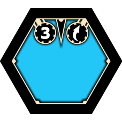
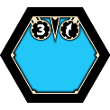
-wywalenie niepotrzebej grafiki -zeskalowanie planszy do 700px w poziomie -powiekszenie paneli informacyjnych -wycentrowanie hexow -pododawane komentarze -wyciagniecie kilka wartosci jako globalne, zeby latwiej manipulowac wielkoscia elementow w grze

diff --git a/onhoclient/onho.py b/onhoclient/onho.py
@@ -43,26 +43,28 @@ color_list = [
 (204, 204, 202)
 ]
 
-aplayer_panel = pygame.Rect((0, 660), (660, 140))
-sidepanel_size = (340, 800 / liczba_graczy)
+aplayer_panel = pygame.Rect((0, 590), (625, 110))
+sidepanel_size = (375, 700 / liczba_graczy)
 panel_list = []
     
 zeton_imgs = ['zet1.png', 'zet2.png', 'zet3.png']
 zetonsprites = []
-zetonslot1 = pygame.Rect((100, 650), (150, 150))
-zetonslot2 = pygame.Rect((300, 650), (150, 150))
-zetonslot3 = pygame.Rect((500, 650), (150, 150))
+
+zetonslot1 = pygame.Rect((50, 595), (100, 100))
+zetonslot2 = pygame.Rect((180, 595), (100, 100))
+zetonslot3 = pygame.Rect((310, 595), (100, 100))
 
 pygame.init()
 pygame.mouse.set_visible(0)
-screen = pygame.display.set_mode ([1000, 800])
+screen = pygame.display.set_mode ([1000, 700])
 pygame.display.set_caption('Open Neuroshina Hex Online')
 
-plansza_rect = pygame.Rect((0, 0), (660, 660))
+plansza_rect = pygame.Rect((0, 0), (625, 590))
 plansza_img = pygame.image.load(os.path.join('data', "plansza.png")).convert_alpha()
 
-plansza = board.Board(width=660, height=660)
-plansza_surface = pygame.Surface((660, 660), SRCALPHA).convert_alpha()
+plansza = board.Board(width=555, height=520)
+plansza_surface = pygame.Surface((555, 520), SRCALPHA).convert_alpha()
+grid_offset = (50, 10)
 
 def load_image(name, colorkey=None):
     fullname = os.path.join('data', name)
@@ -163,8 +165,10 @@ class Tiles():
         self.image = rotate(self.original, self.angle, 1)
         self.rect = self.image.get_rect(center=center)
         screen.blit(plansza_img, (plansza_rect))
-        screen.blit(plansza_surface, (0, 0))
+        screen.blit(plansza_surface, (grid_offset))
         screen.blit(self.image, (self.rect))
+        for z in zeton_list:
+            screen.blit(globals()[z].image, (globals()[z].rect))
         pygame.display.flip()
         
     def rotomagnes(self):
@@ -242,8 +246,8 @@ def main():
     liczba_pom = 0
 
     for i in player_list:
-        globals()[i].rect_picker(pygame.Rect((660, 0), sidepanel_size))
-        globals()[i].rect.top = help_rect.bottom
+        globals()[i].rect_picker(pygame.Rect((625, 0), sidepanel_size))
+        globals()[i].rect.top = help_rect.bottom + 1
         help_rect = globals()[i].rect
         while True:
             try:
@@ -270,7 +274,6 @@ def main():
         pygame.draw.polygon(plansza_surface, (150, 150, 150), plansza.hex_draw(srodek), 3)
         pygame.draw.polygon(plansza_surface, (255, 255, 255), plansza.hex_draw(srodek), 1)
 
-    playerpanel_size = (660, 140)
 
     font_small = pygame.font.Font(None, 8)
     font_big = pygame.font.Font(None, 17)
@@ -283,25 +286,26 @@ def main():
     logo = pygame.image.load(os.path.join('data', "logo.png")).convert_alpha()
 #Main Loop
     while 1:
+        clock.tick(60)
+        		
+#Test stuff
         if SHOW_FPS == 1:
             print clock.get_fps()
-        clock.tick(60)
-        
-        screen.fill((70,70,70), rect=aplayer_panel)
+
+#Drawing
         screen.blit(plansza_img, (plansza_rect))
-        screen.blit(plansza_surface, (0, 0))
+        screen.blit(plansza_surface, ((grid_offset)))
+        screen.fill((70,70,70), rect=aplayer_panel)
         
         for z in zeton_list:
             screen.blit(globals()[z].image, (globals()[z].rect))
-            
-        screen.blit(cursor.image, (cursor.rect))
         
         for i in player_list:
             screen.fill(globals()[i].color, rect=globals()[i].rect)
             
+        screen.blit(cursor.image, (cursor.rect))
 
-
-    #Handle Input Events
+#Handle Input Events
         for event in pygame.event.get():
             cursor.update()
             if 1 == 1:
@@ -329,7 +333,5 @@ def main():
         for z in zeton_list:
             globals()[z].update()
 
-#Draw Everything
+#Screen flip
         pygame.display.flip()
-
-#Game Over
